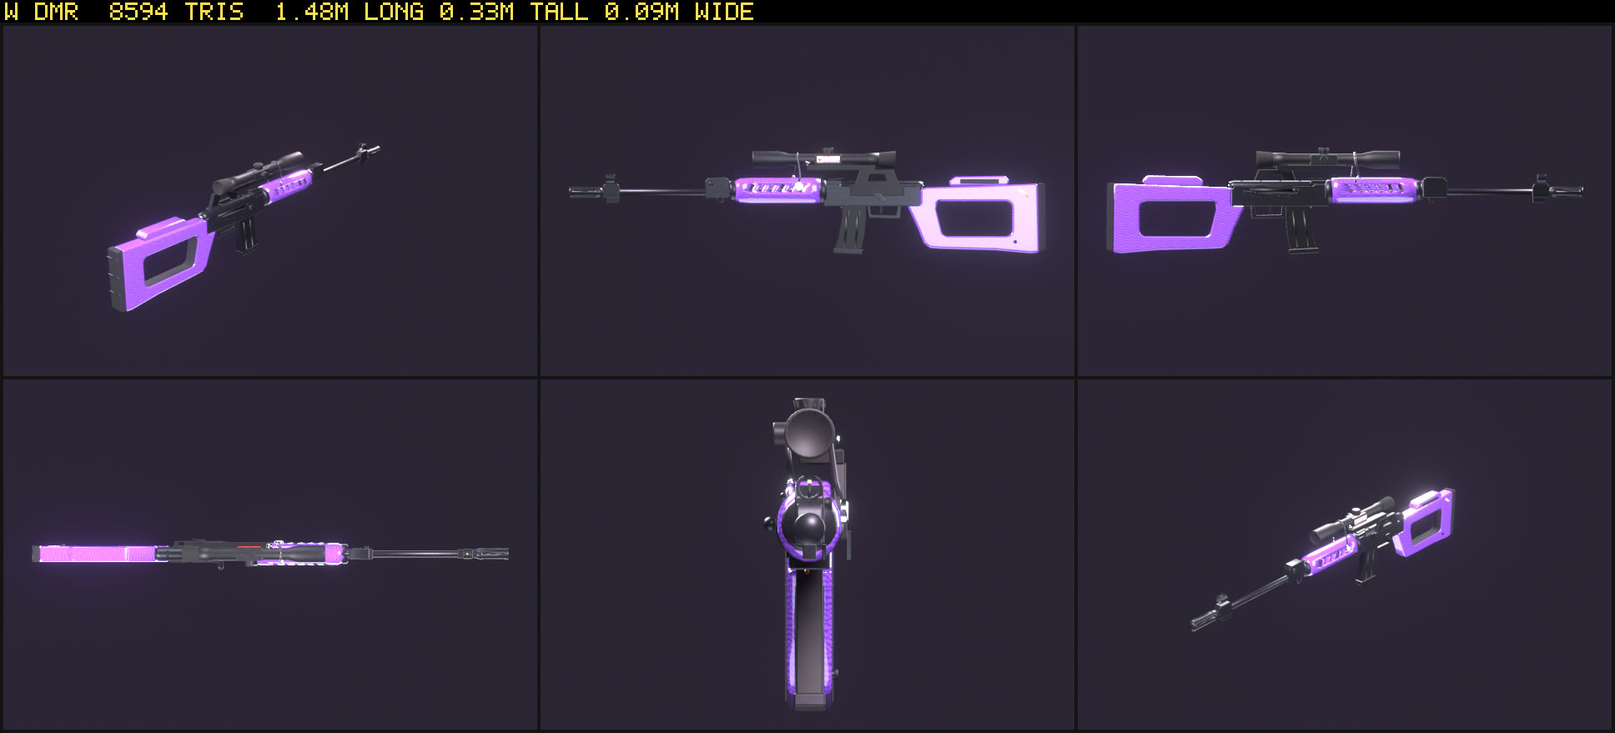
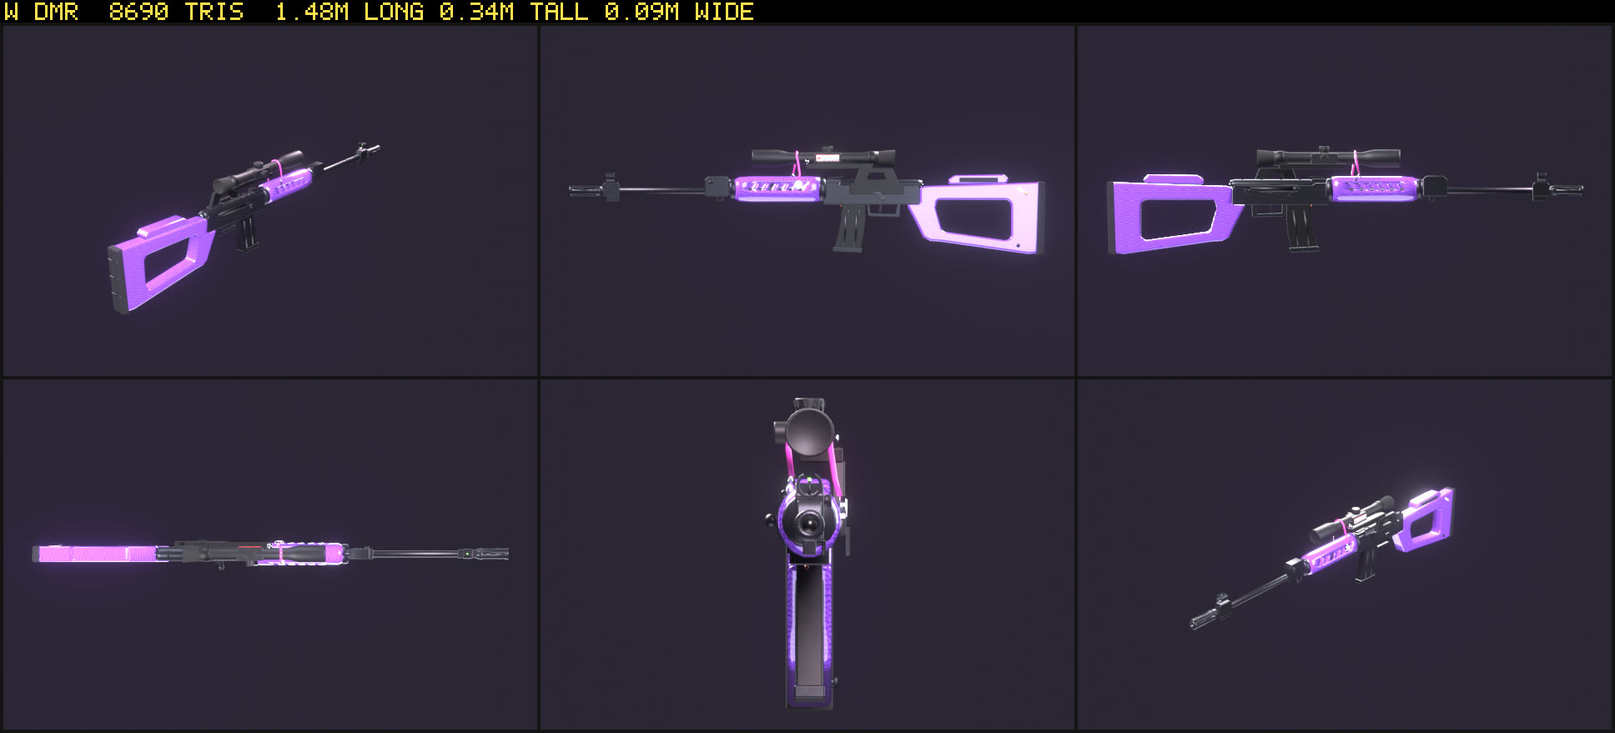
Rifle pack (WIP): Blender model iterations
Claude-Session: https://claude.ai/code/session_01Ayo4epopVY3vPiEfZyc7UV

diff --git a/tools/blender/make_autoshot.py b/tools/blender/make_autoshot.py
@@ -61,17 +61,16 @@ def build():
     A = parts.append
 
     # ---------------- big muzzle brake: three side windows a side, a top slot, front ring; grass stuck in it
-    mb = lathe([(0, Z(-0.5)), (W(21), Z(-0.5)), (W(23), Z(3)), (W(23), Z(92)), (W(19), Z(100))], (0, BORE_Y, 0), park, seg=18)
+    mb = lathe([(W(9.5), Z(10)), (W(9.5), Z(-0.5)), (W(21), Z(-0.5)), (W(23), Z(3)), (W(23), Z(92)), (W(19), Z(100)), (W(9.5), Z(100))], (0, BORE_Y, 0), park, seg=18)
     for d in (18, 42, 66):
         cut(mb, box((W(60), W(20), W(15)), (0, Y(0), Z(d)), None, bev=W(3)))
     cut(mb, box((W(10), W(30), W(60)), (0, Y(22), Z(44)), None, bev=W(2)))
     A(mb)
-    A(lathe([(0, Z(0)), (W(9.5), Z(0)), (W(9.5), Z(10))], (0, BORE_Y, 0), black, seg=12))
-    A(lathe([(W(9.5), Z(4)), (W(9.5), Z(90))], (0, BORE_Y, 0), steel, seg=12, cap=False))  # the bore tube seen through the windows
+    A(cyl(W(9.6), W(1), (0, BORE_Y, Z(9.2)), black, axis='z', seg=12))
     for i, (d, a, l) in enumerate(((18, 0.5, 26), (42, -0.4, 22), (66, 0.2, 30), (42, 2.8, 24), (18, 3.4, 20))):
         sx = 1 if i < 3 else -1
         A(cyl(W(2.4), W(l), (sx * W(20 + l * 0.3), Y(4 + 6 * math.sin(a)), Z(d)), grass, axis='x', seg=4, r2=W(0.3), rot=(0, math.pi if sx < 0 else 0, a * 0.4)))
-    A(lathe([(W(14), Z(98)), (W(14), Z(410))], (0, BORE_Y, 0), steel, seg=16))
+    A(lathe([(W(14), Z(98)), (W(14), Z(424))], (0, BORE_Y, 0), steel, seg=16))
     # ---------------- front sight block (AK ears + post) + gas block, gas tube
     A(side(poly([(108, -16), (146, -16), (146, 18), (136, 26), (116, 26), (108, 18)]), W(30), (0, 0, 0), steel, bev=W(1.8)))
     for sx in (-1, 1):
@@ -84,12 +83,12 @@ def build():
     A(tube([(-W(15), Y(-14), Z(160)), (-W(15), Y(-28), Z(164)), (-W(15), Y(-28), Z(180)), (-W(15), Y(-14), Z(184))], W(2), dark, seg=6))
     # ---------------- handguards: upper over the gas tube, lower round the barrel, grass-green candy
     A(side(poly([(300, 16), (408, 16), (408, 38), (400, 42), (310, 42), (300, 36)]), W(40), (0, 0, 0), green, bev=W(5), seg=2))
-    lg = side(poly([(232, 8), (410, 8), (410, -42), (400, -50), (244, -50), (232, -38)]), W(58), (0, 0, 0), green, bev=W(6), seg=3)
+    lg = side(poly([(232, 8), (410, 8), (410, -42), (400, -50), (244, -50), (232, -38)]), W(58), (0, 0, 0), green, bev=W(6), seg=2)
     for k in range(3):
-        cut(lg, box((W(80), W(8), W(30)), (0, Y(-22), Z(270 + k * 46)), None, bev=W(3)))
+        cut(lg, box((W(80), W(8), W(28)), (0, Y(-22), Z(262 + k * 38)), None, bev=W(3)))
     A(lg)
     A(lathe([(W(22), Z(226)), (W(24), Z(230)), (W(24), Z(240)), (W(22), Z(244))], (0, Y(-6), 0), steel, seg=16))  # front retainer
-    A(box((W(1), W(27), W(38)), (-W(29.6), Y(-20), Z(372)), keep_m))  # KEEP FEET CLEAR (left)
+    A(box((W(1), W(27), W(38)), (-W(29.6), Y(-20), Z(379)), keep_m))  # KEEP FEET CLEAR (left)
 
     # ---------------- receiver: long 12-ga AK body, dust cover, rail, rear sight leaf + rail sight, ports, safety
     rc = side(poly([(410, -48), (500, -48), (500, -52), (586, -52), (590, -58), (740, -58), (740, 18), (452, 18), (440, 26), (410, 26)]), W(42), (0, 0, 0), steel, bev=W(2.5))
@@ -112,10 +111,11 @@ def build():
     A(ring)
     # big AK safety lever (right) + its pivot, selector notch, rear trunnion rivets, mag catch
     A(side(poly([(596, -12), (720, 6), (726, 14), (720, 18), (596, 2)]), W(2.5), (W(22), 0, 0), steel, bev=W(0.6)))
-    A(cyl(W(5), W(4), (W(22.5), Y(6), Z(722)), steel, axis='x', seg=10))
+    A(cyl(W(4.5), W(6), (W(24.5), Y(7), Z(721)), chrome, axis='x', seg=10))
     for d in (430, 700):
         for sx in (-1, 1): A(cyl(W(3), W(1.2), (sx * W(21.4), Y(-30), Z(d)), chrome, axis='x', seg=8))
     A(side(poly([(586, -52), (598, -52), (602, -70), (590, -72)]), W(22), (0, 0, 0), dark, bev=W(1.2)))
+    for sx in (-1, 1): A(box((W(1.5), W(16), W(40)), (sx * W(21.2), Y(-24), Z(530)), dark, bev=W(0.5)))  # the stamped magwell dimples
     # ---------------- charging handle (its own node: slides back along +z)
     CH = (W(21), Y(8), Z(575))
     chg.append(box((W(16), W(8), W(12)), (W(29), Y(8), Z(575)), steel, bev=W(1.2)))
@@ -124,28 +124,28 @@ def build():
     A(side(poly([(598, -56), (606, -56), (608, -82), (660, -84), (668, -58), (676, -58), (674, -92), (600, -90)]), W(12), (0, 0, 0), steel, bev=W(1.5)))
     A(side(poly([(626, -58), (632, -58), (635, -68), (631, -80), (625, -78), (628, -68)]), W(5), (0, 0, 0), dark, bev=W(0.8)))
     A(side(poly([(668, -58), (722, -58), (758, -170), (752, -178), (722, -180), (712, -172), (700, -130), (704, -122), (694, -112), (696, -100), (686, -88)]),
-           W(32), (0, 0, 0), green, bev=W(6), seg=3))
+           W(32), (0, 0, 0), green, bev=W(6), seg=2))
     for k in range(4):  # finger-groove ridges on the grip (left + right)
-        A(box((W(33), W(3), W(26)), (0, Y(-128 - k * 11), Z(730 + k * 3.5)), green, bev=W(1.2), rot=(-0.3, 0, 0)))
+        A(box((W(35), W(3), W(26)), (0, Y(-128 - k * 11), Z(730 + k * 3.5)), green, bev=W(1.2), rot=(-0.3, 0, 0)))
 
     # ---------------- the fat 10-round box mag (its own node, origin at its seat)
     MAG_D, MAG_H = 543, -52
-    front = [(500, -50), (498, -110), (490, -170), (476, -240)]
-    back = [(586, -50), (588, -110), (582, -170), (570, -242)]
+    front = [(500, -50), (497, -100), (489, -150), (476, -206)]
+    back = [(586, -50), (589, -100), (584, -150), (574, -208)]
     mag.append(side(poly(front + back[::-1]), W(46), (0, 0, 0), dark, bev=W(3)))
     for sx in (-1, 1):  # moulded ribs
         for k in range(3):
             fd = 512 + k * 22
-            mag.append(side(poly([(fd, -64), (fd + 6, -64), (fd - 6, -226), (fd - 12, -226)]), W(1.5), (sx * W(23.4), 0, 0), steel))
-    mag.append(side(poly([(472, -238), (574, -240), (574, -258), (470, -256)]), W(52), (0, 0, 0), hazard, bev=W(3)))
+            mag.append(side(poly([(fd, -64), (fd + 6, -64), (fd - 6, -194), (fd - 12, -194)]), W(1.5), (sx * W(23.4), 0, 0), steel))
+    mag.append(side(poly([(472, -204), (578, -206), (578, -224), (470, -222)]), W(52), (0, 0, 0), hazard, bev=W(3)))
     mag.append(side(poly([(496, -40), (512, -40), (512, -52), (498, -52)]), W(30), (0, 0, 0), dark, bev=W(1)))  # front lug
-    mag.append(box((W(1), W(20), W(40)), (-W(23.6), Y(-150), Z(532)), mow_m, rot=(-0.12, 0, 0)))
+    mag.append(box((W(1), W(20), W(40)), (-W(23.6), Y(-128), Z(533)), mow_m, rot=(-0.12, 0, 0)))
     mag.append(cyl(W(9), W(10), (0, Y(-46), Z(543)), red, axis='y', seg=14))   # red shell base peeking out the lips
 
     # ---------------- side-folding stock, pulled out: hinge block (left), polymer body with a slot, rubber butt
     A(side(poly([(736, -50), (772, -50), (772, 14), (736, 14)]), W(12), (-W(24), 0, 0), steel, bev=W(2)))
     A(cyl(W(7), W(10), (-W(29), Y(-18), Z(754)), chrome, axis='x', seg=12))        # latch button
-    st = side(poly([(740, 16), (980, 8), (996, 10), (996, -132), (980, -136), (900, -110), (780, -62), (740, -50)]), W(38), (0, 0, 0), green, bev=W(6), seg=3,
+    st = side(poly([(740, 16), (980, 8), (996, 10), (996, -132), (980, -136), (900, -110), (780, -62), (740, -50)]), W(38), (0, 0, 0), green, bev=W(6), seg=2,
               holes=[poly([(800, -14), (940, -18), (940, -34), (820, -40)])])
     A(st)
     A(side(poly([(994, 12), (1006, 10), (1006, -134), (994, -138)]), W(40), (0, 0, 0), rubber, bev=W(3)))
@@ -163,7 +163,7 @@ def build():
             W(2.6), cord, seg=6))
     A(box((W(10), W(14), W(10)), (-W(24), Y(-16), Z(446)), dark, bev=W(1.5)))     # the clip it hangs in
     A(cyl(W(7), W(46), (hx - W(4), Y(-16), Z(436)), rubber, axis='y', seg=12, bev=W(2)))  # T-handle
-    for sy in (-1, 1): A(cyl(W(7.6), W(6), (hx - W(4), Y(-16 + sy * 20), Z(436)), red, axis='y', seg=12))
+    for sy in (-1, 1): A(cyl(W(8.4), W(8), (hx - W(4), Y(-16 + sy * 21), Z(436)), red, axis='y', seg=12))
 
     for p in parts + mag + chg: uv_box(p, 0.03)
     for p in parts + mag:
@@ -175,7 +175,7 @@ def build():
     mn = moving(mag, 'mag', (0, Y(MAG_H), Z(MAG_D)), {'as_dark': 'b', 'as_steel': 'b'}, default='n')
     cn = moving(chg, 'charge', CH, {'as_steel': 'b'}, default='n')
     meta = {'kind': 'weapon', 'id': 'autoshot', 'paint': ['as_green'], 'muzzle': [0, BORE_Y, MUZ_Z],
-            'sight': {'y': Y(SIGHT_H), 'z': Z(REAR_D)}, 'hatAt': [[0, Y(41), Z(540)], 0.12],
+            'sight': {'y': Y(SIGHT_H), 'z': Z(REAR_D) + 0.06}, 'hatAt': [[0, Y(41), Z(540)], 0.12],
             'mag': {'node': 'mag'}, 'charge': {'node': 'charge'}}
     return finish('w_autoshot', bodies + [mn, cn], meta)
 

diff --git a/tools/blender/make_dmr.py b/tools/blender/make_dmr.py
@@ -45,7 +45,7 @@ def build():
     ocular = mat('dm_ocular', 0x101018, rough=0.05, metal=0.5)
     dot = mat('dm_dot', 0x7dff4f, rough=0.4, emit=0x7dff4f, strength=4.0)
     black = mat('dm_black', 0x050505, rough=0.3)
-    tubing = mat('dm_tubing', 0x2b2b33, rough=0.35, clearcoat=0.6)
+    tubing = mat('dm_tubing', 0xff4fd8, rough=0.3, clearcoat=0.8)
     aid_m = mat('dm_bandaid', 0xe8b48a, rough=0.6, tex=tex_canvas('dm_bandaid_t', 32, 8, lambda px: (
         px.__setitem__(slice(None), hexrgb(0xe8b48a)), px.__setitem__((slice(1, 7), slice(12, 20)), hexrgb(0xf6e6d6)),
         [px.__setitem__((y, x), hexrgb(0xb8845a)) for y in (2, 5) for x in (3, 6, 9, 23, 26, 29)])))
@@ -60,12 +60,12 @@ def build():
     A = parts.append
 
     # ---------------- slotted flash hider (five long slots, closed front ring), thin barrel
-    fh = lathe([(0, Z(-0.5)), (W(13), Z(-0.5)), (W(14), Z(3)), (W(14), Z(72)), (W(12.5), Z(78)), (W(11), Z(84))], (0, BORE_Y, 0), steel, seg=20)
+    fh = lathe([(W(7), Z(10)), (W(7), Z(-0.5)), (W(13), Z(-0.5)), (W(14), Z(3)), (W(14), Z(72)), (W(12.5), Z(78)), (W(11), Z(84)), (W(7), Z(84))], (0, BORE_Y, 0), steel, seg=20)
     for k in range(5):
         a = math.pi / 2 + k * 2 * math.pi / 5
         cut(fh, box((W(4.5), W(10), W(56)), (math.cos(a) * W(14), BORE_Y + math.sin(a) * W(14), Z(38)), None, rot=(0, 0, a - math.pi / 2)))
     A(fh)
-    A(lathe([(0, Z(0)), (W(7), Z(0)), (W(7), Z(9))], (0, BORE_Y, 0), black, seg=10))
+    A(cyl(W(7.1), W(1), (0, BORE_Y, Z(9.2)), black, axis='z', seg=10))
     A(lathe([(W(8.5), Z(80)), (W(8.5), Z(360)), (W(10), Z(370)), (W(10), Z(660))], (0, BORE_Y, 0), steel, seg=14))
     # ---------------- front sight: base, hood, post with a glowing tip, bayonet lug, sling swivel
     A(side(poly([(86, -14), (130, -14), (130, 14), (124, 22), (92, 22), (86, 14)]), W(22), (0, 0, 0), steel, bev=W(1.5)))
@@ -126,21 +126,21 @@ def build():
     for sx in (-1, 1):  # the stamped ribs
         mag.append(side(poly([(716, -50), (722, -50), (712, -140), (706, -140)]), W(1.2), (sx * W(12.4), 0, 0), steel))
         mag.append(side(poly([(744, -50), (750, -50), (740, -142), (734, -142)]), W(1.2), (sx * W(12.4), 0, 0), steel))
-    mag.append(cyl(W(4.8), W(52), (W(2.5), Y(-38), Z(740)), brass, axis='z', seg=10))   # top round
+    mag.append(cyl(W(4.8), W(44), (W(2.5), Y(-38), Z(738)), brass, axis='z', seg=10))   # top round
     mag.append(cyl(W(4.6), W(14), (W(2.5), Y(-38), Z(707)), mat('dm_copper', 0xc8683a, rough=0.3, metal=1.0), axis='z', seg=10, r2=W(1.5)))
 
     # ---------------- skeleton thumbhole stock, cheek rest, butt plate
-    stock = side(poly([(872, -36), (906, -36), (906, 8), (920, 12), (1060, 16), (1208, 22), (1212, -156), (1190, -158), (1100, -150), (960, -146), (930, -144),
-                       (914, -132), (900, -96), (884, -62)]), W(40), (0, 0, 0), wood, bev=W(6), seg=3,
-                 holes=[poly([(950, -24)] + arc(1126, -40, 16, 90, 0, 4) + [(1142, -98)] + arc(1126, -98, 16, 0, -90, 4)
-                             + [(976, -114)] + arc(976, -98, 16, -90, -165, 3) + [(946, -44)])])
+    stock = side(poly([(872, -36), (906, -36), (906, 8), (920, 12), (1060, 16), (1216, 22), (1210, -162), (1186, -164), (960, -132), (932, -130),
+                       (914, -120), (900, -90), (884, -60)]), W(40), (0, 0, 0), wood, bev=W(6), seg=3,
+                 holes=[poly([(952, -24)] + arc(1126, -40, 16, 90, 0, 4) + [(1142, -112)] + arc(1126, -112, 16, 0, -90, 4)
+                             + [(976, -107)] + arc(976, -91, 16, -90, -165, 3) + [(946, -44)])])
     A(stock)
     A(side(poly([(980, 16), (1130, 18), (1136, 30), (1124, 42), (996, 40), (980, 30)]), W(38), (0, 0, 0), wood, bev=W(5), seg=3))  # cheek rest
     A(box((W(2), W(12), W(100)), (-W(19.2), Y(28), Z(1058)), dark, bev=W(0.5)))  # the cheek rest's clamp strip
-    A(side(poly([(1208, 24), (1226, 22), (1228, -150), (1210, -154)]), W(42), (0, 0, 0), rubber, bev=W(3)))
+    A(side(poly([(1212, 24), (1230, 22), (1226, -164), (1206, -168)]), W(42), (0, 0, 0), rubber, bev=W(3)))
     for k in range(3):
-        A(box((W(43), W(2), W(6)), (0, Y(0 - k * 50), Z(1226)), dark))
-    A(cyl(W(5), W(10), (-W(20), Y(-128), Z(1150)), steel, axis='x', seg=10))   # rear sling swivel
+        A(box((W(38), W(2), W(6)), (0, Y(-10 - k * 50), Z(1228.5 - k * 1.3)), dark))
+    A(cyl(W(5), W(10), (-W(20), Y(-142), Z(1160)), steel, axis='x', seg=10))   # rear sling swivel
     A(box((W(1), W(8), W(32)), (-W(20.4), Y(-2), Z(1172)), aid_m, rot=(0.6, 0, 0)))  # band-aid on the stock
 
     # ---------------- PSO-style scope: sunshade + objective, tube, turret block, eyepiece, long rubber eyecup
@@ -157,19 +157,19 @@ def build():
         a = k * math.pi / 5
         A(box((W(2.4), W(12), W(2.4)), (math.cos(a) * W(13), sy + W(23), Z(668) + math.sin(a) * W(13)), dark))
     A(cyl(W(7), W(14), (-W(19), sy - W(8), Z(616)), chrome, axis='x', seg=12))   # illumination battery cap
-    A(lathe([(W(17), Z(774)), (W(17), Z(790))], (0, sy, 0), dark, seg=24))         # diopter ring
+    A(lathe([(W(18.6), Z(774)), (W(19.4), Z(776)), (W(19.4), Z(788)), (W(18.6), Z(790))], (0, sy, 0), dark, seg=24))         # diopter ring
     # mount: rail clamp on the left side, arm up to the scope's base
     A(side(poly([(726, -10), (862, -10), (862, 20), (726, 20)]), W(10), (-W(28), 0, 0), dark, bev=W(1.5)))
     A(side(poly([(736, 18), (852, 18), (836, 58), (750, 58)]), W(12), (-W(26), 0, 0), dark, bev=W(2), holes=[poly([(770, 28), (818, 28), (810, 46), (778, 46)])]))
-    A(side(poly([(612, 56), (790, 56), (790, 70), (612, 70)]), W(40), (-W(10), 0, 0), dark, bev=W(2)))
+    A(side(poly([(612, 56), (785, 56), (785, 70), (612, 70)]), W(40), (-W(10), 0, 0), dark, bev=W(2)))
     A(side(poly([(780, -2), (800, -2), (818, -24), (808, -28)]), W(5), (-W(34.5), 0, 0), steel, bev=W(1)))  # clamp lever
     A(box((W(1), W(17), W(58)), (-W(18.6), sy + W(1), Z(668)), sticker))
 
     # ---------------- the stethoscope draped over the scope tube (chest piece on the left, ear tips on the right)
     dz = Z(588)
     loop = [(-W(17), sy + W(6), dz), (-W(11), sy + W(14), dz), (0, sy + W(18), dz), (W(11), sy + W(14), dz), (W(17), sy + W(6), dz)]
-    A(sweep(loop + [(W(19), sy - W(14), dz - W(4)), (W(16), sy - W(40), dz - W(10))], W(2.6), tubing, seg=8))
-    A(sweep(loop[::-1] + [(-W(19), sy - W(14), dz + W(4)), (-W(23), sy - W(42), dz + W(8)), (-W(27), sy - W(57), dz + W(4))], W(2.6), tubing, seg=8))
+    left = [(-W(27), sy - W(57), dz + W(4)), (-W(23), sy - W(42), dz + W(8)), (-W(19), sy - W(14), dz + W(4))]
+    A(sweep(left + loop + [(W(19), sy - W(14), dz - W(4)), (W(16), sy - W(40), dz - W(10))], W(2.6), tubing, seg=8))  # one tube, over the top
     A(cyl(W(11), W(6), (-W(30), sy - W(68), dz + W(4)), chrome, axis='x', seg=18, bev=W(1)))      # chest piece
     A(cyl(W(8), W(1), (-W(33.4), sy - W(68), dz + W(4)), mat('dm_diaphragm', 0xf0f0f0, rough=0.4), axis='x', seg=16))
     for sx in (-1, 1):  # binaural: two chrome tubes with black ear tips

diff --git a/tools/blender/make_lmg.py b/tools/blender/make_lmg.py
@@ -130,9 +130,9 @@ def build():
         A(box((W(28), W(9), W(7)), (0, Y(18), Z(406 + k * 14)), dark, bev=W(1.2)))
 
     # ---------------- receiver: steel core, orange side shells, feed tray, magwell stub on the left
-    A(side(poly([(466, 24), (796, 24), (796, -52), (466, -52)]), W(60), (0, 0, 0), steel, bev=W(2)))
+    A(side(poly([(466, 24), (730, 24), (744, 4), (796, -2), (796, -52), (466, -52)]), W(60), (0, 0, 0), steel, bev=W(2)))
     for sx in (-1, 1):  # orange power-tool shells on both sides
-        sh = side(poly([(476, 16), (740, 16), (760, 4), (788, 4), (788, -46), (476, -46)]), W(4), (sx * W(31), 0, 0), orange, bev=W(1.5))
+        sh = side(poly([(476, 16), (726, 16), (744, -2), (788, -6), (788, -46), (476, -46)]), W(4), (sx * W(31), 0, 0), orange, bev=W(1.5))
         A(sh)
     A(side(poly([(472, -44), (790, -44), (790, -56), (472, -56)]), W(64), (0, 0, 0), over, bev=W(2)))  # rubber skid along the bottom
     for k in range(5):  # motor vents (right side)
@@ -147,21 +147,21 @@ def build():
     # the magwell on the left bottom the box hooks on
     A(side(poly([(548, -50), (640, -50), (640, -88), (548, -88)]), W(36), (-W(16), 0, 0), steel, bev=W(2)))
     # charging handle (right, folded out)
-    A(box((W(10), W(14), W(30)), (W(34), Y(-6), Z(520)), dark, bev=W(2)))
+    A(box((W(10), W(14), W(30)), (W(35.5), Y(-6), Z(520)), dark, bev=W(2)))
     A(side(poly([(508, -2), (534, -2), (540, -14), (514, -16)]), W(18), (W(46), 0, 0), over, bev=W(2)))
     # variable-speed dial on the left (it's a power tool)
     A(cyl(W(15), W(5), (-W(34), Y(-14), Z(700)), over, axis='x', seg=16, bev=W(1)))
     dl = cyl(W(12), W(1.2), (-W(37), Y(-14), Z(700)), dial_m, axis='x', seg=16)
     A(dl)
     # cover latch at the back
-    A(box((W(50), W(10), W(10)), (0, Y(30), Z(HINGE_D + 10)), dark, bev=W(2)))
+    A(box((W(30), W(10), W(10)), (0, Y(21), Z(HINGE_D + 10)), dark, bev=W(2)))
 
     # ---------------- feed tray cover (its own node, hinged at the back) with the rear sight on it
-    cv = side(poly([(556, 22), (HINGE_D + 4, 22), (HINGE_D + 4, 36), (HINGE_D - 6, 40), (630, 40), (572, 32), (556, 28)]), W(56), (0, 0, 0), orange, bev=W(3), seg=2)
+    cv = side(poly([(556, 22), (HINGE_D + 4, 22), (HINGE_D + 4, 31), (HINGE_D - 30, 40), (630, 40), (572, 32), (556, 28)]), W(56), (0, 0, 0), orange, bev=W(3), seg=2)
     cover.append(cv)
     for k in range(3):  # black ribs across the top, behind the sight
-        cover.append(box((W(46), W(2.5), W(6)), (0, Y(40.5), Z(674 + k * 14)), over, bev=W(0.8)))
-    cover.append(cyl(W(6), W(64), (0, Y(32), Z(HINGE_D)), dark, axis='x', seg=10))  # hinge knuckle
+        cover.append(box((W(46), W(2.5), W(6)), (0, Y(40.5), Z(668 + k * 9)), over, bev=W(0.8)))
+    cover.append(cyl(W(4.5), W(58), (0, Y(30), Z(HINGE_D)), dark, axis='x', seg=10))  # hinge knuckle
     # rear sight: a leaf with an aperture on the sight line
     cover.append(box((W(22), W(6), W(26)), (0, Y(42.5), Z(REAR_D)), dark, bev=W(1.2)))
     for sx in (-1, 1):
@@ -183,13 +183,12 @@ def build():
         A(pn)
 
     # ---------------- stock: orange shell, black butt pad, motor vents, sling swivel, power cord + plug out of the butt
-    A(side(poly([(790, 22), (1012, 16), (1020, 10), (1020, -116), (1000, -120), (920, -96), (840, -62), (796, -52)]), W(52), (0, 0, 0), orange, bev=W(7), seg=3))
-    A(side(poly([(1018, 14), (1040, 12), (1042, -118), (1018, -122)]), W(56), (0, 0, 0), over, bev=W(3)))
+    A(side(poly([(790, -2), (850, -8), (1012, -14), (1020, -18), (1020, -116), (1000, -120), (920, -96), (840, -62), (796, -52)]), W(52), (0, 0, 0), orange, bev=W(7), seg=3))
+    A(side(poly([(1018, -14), (1040, -16), (1042, -118), (1018, -122)]), W(56), (0, 0, 0), over, bev=W(3)))
     for sx in (-1, 1):
         for k in range(5):
-            A(box((W(3), W(8), W(36)), (sx * W(25.5), Y(-8 - k * 13), Z(900 + k * 6)), black, bev=W(1.2)))
-    A(side(poly([(812, 20), (1000, 16), (1000, 26), (812, 30)]), W(30), (0, 0, 0), over, bev=W(3)))  # cheek rubber on the comb
-    lb = box((W(1), W(13), W(84)), (-W(26.6), Y(-14), Z(850)), label)  # BELT SANDER moulded label (left side)
+            A(box((W(3), W(8), W(36)), (sx * W(25.5), Y(-30 - k * 12), Z(905 + k * 6)), black, bev=W(1.2)))
+    lb = box((W(1), W(13), W(84)), (-W(26.6), Y(-30), Z(870)), label)  # BELT SANDER moulded label (left side)
     A(lb)
     A(tube([(0, Y(-112), Z(990)), (0, Y(-128), Z(992)), (0, Y(-128), Z(976)), (0, Y(-112), Z(978))], W(2.4), dark, seg=6))
     cpts = [(0, Y(-110), Z(1036)), (0, Y(-128), Z(1052)), (-W(4), Y(-160), Z(1060)), (-W(10), Y(-200), Z(1050)), (-W(16), Y(-228), Z(1030))]
@@ -250,11 +249,12 @@ def build():
         if i < 11:
             nx = math.cos(ta); ny = math.sin(ta)
             bits.append(box((W(3), W(1.6), W(6)), (x + nx * pitch * 0.5 + ny * W(4.6), y + ny * pitch * 0.5 - nx * W(4.6), zc + W(7) + off * 0.5), link_m, rot=(0, 0, ta)))
+        for o in bits: uv_box(o, 0.035)
         belt.append(part(bits, f'belt_{i:02d}', pivot=(x, y, zc)))
 
     for p in parts + cover + magp:
         if p.data.materials and p.data.materials[0] not in (tag, dial_m, label): uv_box(p, 0.035)
-    apply_mods(lb); uv_planar(lb, (-W(26.6), Y(-14), Z(850)), (W(84), W(13)), '-x')
+    apply_mods(lb); uv_planar(lb, (-W(26.6), Y(-30), Z(870)), (W(84), W(13)), '-x')
     apply_mods(dl); uv_planar(dl, (-W(37), Y(-14), Z(700)), (W(24), W(24)), '-x')
 
     WZ = {'lmg_orange': 'a', 'lmg_over': 'a', 'lmg_grit': 'a', 'lmg_steel': 'b', 'lmg_dark': 'b', 'lmg_box': 'b'}
@@ -270,7 +270,7 @@ def build():
     mag_node = mover('mag', SEAT, zgroups(magp, lambda m: 'N' if m == 'lmg_tag' else 'B'))
     belt_root = bpy.data.objects.new('belt_wzN', None); bpy.context.scene.collection.objects.link(belt_root)
     for b in belt: b.parent = belt_root
-    meta = {'kind': 'weapon', 'id': 'lmg', 'paint': ['lmg_orange'], 'muzzle': [0, BORE_Y, MUZ_Z], 'sight': {'y': Y(SIGHT_H), 'z': Z(REAR_D) + 0.04},
+    meta = {'kind': 'weapon', 'id': 'lmg', 'paint': ['lmg_orange'], 'muzzle': [0, BORE_Y, MUZ_Z], 'sight': {'y': Y(SIGHT_H), 'z': Z(REAR_D)},
             'hatAt': [[0, Y(25), Z(440)], 0.11], 'mag': {'node': 'mag'}, 'cover': {'node': 'cover'},
             'belt': [f'belt_{i:02d}' for i in range(12)], 'heat': 'lmg_heat'}
     root = finish('w_lmg', bodies + [cv_node, mag_node, belt_root], meta)

diff --git a/tools/blender/make_burst.py b/tools/blender/make_burst.py
@@ -65,12 +65,12 @@ def build():
     A = parts.append
 
     # ---------------- muzzle: 22 mm grenade-launcher sleeve with its stop ring and flash ports, then the thin barrel
-    mz = lathe([(0, Z(-0.5)), (W(10.5), Z(-0.5)), (W(11.5), Z(2)), (W(11.5), Z(50)), (W(10.5), Z(53))], (0, BORE_Y, 0), steel, seg=16)
+    mz = lathe([(W(5.5), Z(9)), (W(5.5), Z(-0.5)), (W(10.5), Z(-0.5)), (W(11.5), Z(2)), (W(11.5), Z(50)), (W(10.5), Z(53)), (W(5.5), Z(53))], (0, BORE_Y, 0), steel, seg=16)
     for k in range(6):
         a = k * math.pi / 3 + math.pi / 6
         cut(mz, box((W(4.5), W(10), W(20)), (math.cos(a) * W(11.5), BORE_Y + math.sin(a) * W(11.5), Z(14)), None, rot=(0, 0, a - math.pi / 2)))
     A(mz)
-    A(lathe([(0, Z(0)), (W(5.5), Z(0)), (W(5.5), Z(7))], (0, BORE_Y, 0), black, seg=10))  # dark bore
+    A(cyl(W(5.6), W(1), (0, BORE_Y, Z(8.2)), black, axis='z', seg=10))  # dark bore
     A(lathe([(W(12), Z(53)), (W(14.5), Z(55)), (W(14.5), Z(64)), (W(12), Z(66))], (0, BORE_Y, 0), chrome, seg=18))  # grenade stop ring
     A(lathe([(W(9.5), Z(64)), (W(9.5), Z(150)), (W(10.5), Z(158)), (W(10.5), Z(205))], (0, BORE_Y, 0), steel, seg=14))
 
@@ -93,6 +93,11 @@ def build():
     for sx in (-1, 1):  # pressed panel lines down each side
         A(box((W(1.2), W(4), W(200)), (sx * W(28.3), Y(-26), Z(440)), navy, bev=W(0.5)))
     A(side(poly([(742, 46), (757, 44), (757, -104), (742, -110)]), W(58), (0, 0, 0), rubber, bev=W(3)))  # butt pad
+    A(side(poly([(506, -46), (560, -64), (690, -98), (736, -110), (744, -104), (744, -92), (690, -82), (560, -50), (508, -36)]), W(58), (0, 0, 0), navy, bev=W(3)))  # the lower stock shell
+    A(side(poly([(556, -2), (622, -2), (622, 24), (562, 24)]), W(3), (-W(28.6), 0, 0), navy, bev=W(1)))   # port cover plate (left)
+    A(box((W(60), W(6), W(26)), (0, Y(-84), Z(726)), black))                                            # sling slot through the butt
+    for sx in (-1, 1):  # stippled thumb pads on the grip
+        A(side(poly([(344, -64), (376, -64), (386, -128), (356, -128)]), W(1.5), (sx * W(15.4), 0, 0), navy, bev=W(0.5)))
     for k in range(4):
         A(box((W(60), W(2), W(4)), (0, Y(28 - k * 34), Z(756)), dark))
     # burst dial under the butt (the real FAMAS hides its burst limiter there), painted "3"
@@ -103,12 +108,11 @@ def build():
     ch = side(poly([(212, 18), (250, 18), (262, 46), (580, 46), (604, 40), (640, 40), (640, 62), (214, 62), (210, 50)]), W(22), (0, 0, 0), poly_m, bev=W(3), seg=2,
               holes=[poly([(262, 30), (268, 46), (560, 46), (590, 40), (592, 30)])])
     A(ch)
-    A(box((W(22), W(4), W(380)), (0, Y(48), Z(420)), poly_m, bev=W(1)))             # spine underside lip
     A(box((W(6), W(1.5), W(300)), (0, Y(62.4), Z(380)), dark))                       # sight channel groove (painted)
     for sx in (-1, 1):  # front sight wings, the post between them
         A(side(poly([(218, 62), (240, 62), (238, 90), (226, 90)]), W(4), (sx * W(9), 0, 0), steel, bev=W(1)))
-    A(box((W(2.6), W(20), W(3)), (0, Y(SIGHT_H - 11), Z(FRONT_D)), dark))
-    A(box((W(3), W(3), W(3)), (0, Y(SIGHT_H - 0.5), Z(FRONT_D)), dot, bev=W(0.5)))
+    A(box((W(2.6), W(20), W(2.4)), (0, Y(SIGHT_H - 11), Z(FRONT_D)), dark))
+    A(box((W(4.4), W(4.2), W(4.2)), (0, Y(SIGHT_H - 0.5), Z(FRONT_D)), dot, bev=W(0.6)))
     # rear: drum housing with two ears, a peep ring on the sight line
     A(side(poly([(480, 62), (510, 62), (508, 68), (482, 68)]), W(17), (0, 0, 0), steel, bev=W(1.5)))
     for sx in (-1, 1):
@@ -116,10 +120,10 @@ def build():
     ring = cyl(W(6), W(3), (0, Y(SIGHT_H), Z(REAR_D)), dark, axis='z', seg=16)
     cut(ring, cyl(W(3.4), W(10), (0, Y(SIGHT_H), Z(REAR_D)), None, axis='z', seg=12))
     A(ring)
-    A(box((W(3), W(11), W(3)), (0, Y(SIGHT_H - 11), Z(REAR_D)), dark))
+    A(box((W(3), W(11), W(1.6)), (0, Y(SIGHT_H - 11), Z(REAR_D)), dark))
     A(cyl(W(4.5), W(21), (0, Y(66), Z(REAR_D)), steel, axis='x', seg=12))                # drum axle knob
     # slot in the receiver top that the cocking lever runs in
-    A(box((W(8), W(1.2), W(110)), (0, Y(22.3), Z(392)), black))
+    A(box((W(10), W(1.2), W(110)), (0, Y(22.3), Z(392)), black))
 
     # ---------------- cocking lever (its own node: slides back along +z)
     CH_D, CH_H = 356, 33
@@ -149,7 +153,7 @@ def build():
     mag.append(cyl(W(4.5), W(10), (W(3), Y(-41), Z(447)), mat('bu_copper', 0xc8683a, rough=0.3, metal=1.0), axis='z', seg=10, r2=W(1.5)))
 
     # ---------------- bipod: hinge block at the front of the guard, legs folded back along both sides
-    A(box((W(64), W(14), W(18)), (0, Y(-8), Z(196)), dark, bev=W(2)))
+    A(box((W(64), W(14), W(15)), (0, Y(-8), Z(195)), dark, bev=W(2)))
     for sx in (-1, 1):
         A(cyl(W(5), W(6), (sx * W(32), Y(-8), Z(196)), steel, axis='x', seg=10))
         A(rod((sx * W(31), Y(-10), Z(200)), (sx * W(30.5), Y(-16), Z(400)), W(4.5), steel, seg=8))

diff --git a/tools/blender/make_lever.py b/tools/blender/make_lever.py
@@ -139,7 +139,7 @@ def build():
     lo = bpy.data.objects.new('leaf', me); bpy.context.scene.collection.objects.link(lo); me.materials.append(blue)
     smooth(lo, 30); bevel(lo, W(0.4), 1, 30)
     A(lo)
-    A(box((W(1.4), W(1.4), W(2.6)), (0, Y(SIGHT_H - 3.2), Z(REAR_D) - W(0.2)), bead))  # a tiny gold V insert
+    A(box((W(1.4), W(1.4), W(3.6)), (0, Y(SIGHT_H - 3.2), Z(REAR_D)), bead))  # a tiny gold V insert
 
     # ---------------- forend (walnut, rounded, swells a little toward the receiver)
     fe = side(poly([(304, 3), (488, 4), (488, -31), (304, -30)]), W(30), (0, 0, 0), fore_w, bev=W(8), seg=3)
@@ -190,7 +190,7 @@ def build():
     # ---------------- the hammer (its own node), resting down
     hm = side(poly([(634, -4), (654, -4), (656, 8), (653, 22), (657, 30), (672, 36), (680, 38), (682, 32), (668, 26), (648, 22), (640, 12)]), W(7), (0, 0, 0), case, bev=W(1))
     ham.append(hm)
-    for k in range(4): ham.append(box((W(7.4), W(1), W(1.4)), (0, Y(31.5 + k * 1.6), Z(664 + k * 4.2)), dark, rot=(-0.35, 0, 0)))  # checkered spur
+    for k in range(4): ham.append(box((W(8.4), W(1.2), W(1.6)), (0, Y(31.5 + k * 1.6), Z(664 + k * 4.2)), dark, rot=(-0.35, 0, 0)))  # checkered spur
 
     # ---------------- the big loop lever (its own node, pivot on the front pin), pink leather wrap
     outer = [(546, -40), (556, -37), (660, -38), (690, -40), (706, -36.5), (716, -38), (720, -46), (728, -62), (740, -86), (744, -108), (738, -130), (720, -146), (690, -154), (650, -154), (612, -147), (588, -131), (576, -108), (572, -84), (566, -62), (556, -59), (546, -52)]
